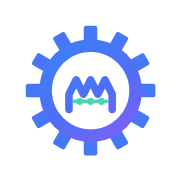
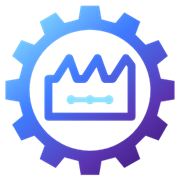
Логотип заменён на исходный файл: знак, фавикон и обложка

diff --git a/index.html b/index.html
@@ -5,7 +5,6 @@
 <meta name="viewport" content="width=device-width, initial-scale=1">
 <title>Цифровой завод — роботизация и цифровая платформа СМК</title>
 <meta name="description" content="ООО «Цифровой завод»: внедрение промышленных роботов, роботизированные ячейки, интеграция с оборудованием и цифровая платформа СМК.">
-<link rel="icon" href="assets/favicon.svg" type="image/svg+xml">
 <link rel="icon" href="assets/favicon-512.png" sizes="512x512" type="image/png">
 <link rel="apple-touch-icon" href="assets/apple-touch-icon.png">
 <meta name="theme-color" content="#050b16">
@@ -31,7 +30,7 @@
 
 <header class="site-header">
   <div class="wrap header-inner">
-    <a class="brand" href="index.html"><img class="brand-logo" src="assets/logo.svg" width="72" height="72" alt="">Цифровой завод</a>
+    <a class="brand" href="index.html"><img class="brand-logo" src="assets/logo.png" width="72" height="72" alt="">Цифровой завод</a>
     <button class="nav-toggle" type="button" aria-expanded="false" aria-controls="main-nav">Меню</button>
     <nav class="main-nav" id="main-nav" aria-label="Основная навигация">
       <a href="index.html" aria-current="page">Главная</a>

diff --git a/robotization.html b/robotization.html
@@ -5,7 +5,6 @@
 <meta name="viewport" content="width=device-width, initial-scale=1">
 <title>Роботизация производства — Цифровой завод</title>
 <meta name="description" content="Роботизация производства: интеллектуальные роботизированные производственные ячейки — роботы, логистика и контроль качества в единой системе.">
-<link rel="icon" href="assets/favicon.svg" type="image/svg+xml">
 <link rel="icon" href="assets/favicon-512.png" sizes="512x512" type="image/png">
 <link rel="apple-touch-icon" href="assets/apple-touch-icon.png">
 <meta name="theme-color" content="#050b16">
@@ -31,7 +30,7 @@
 
 <header class="site-header">
   <div class="wrap header-inner">
-    <a class="brand" href="index.html"><img class="brand-logo" src="assets/logo.svg" width="72" height="72" alt="">Цифровой завод</a>
+    <a class="brand" href="index.html"><img class="brand-logo" src="assets/logo.png" width="72" height="72" alt="">Цифровой завод</a>
     <button class="nav-toggle" type="button" aria-expanded="false" aria-controls="main-nav">Меню</button>
     <nav class="main-nav" id="main-nav" aria-label="Основная навигация">
       <a href="index.html">Главная</a>

diff --git a/services.html b/services.html
@@ -5,7 +5,6 @@
 <meta name="viewport" content="width=device-width, initial-scale=1">
 <title>Услуги — Цифровой завод</title>
 <meta name="description" content="Компетенции в области организации производства и оптимизации производственных систем: инжиниринг, организация производства, цифровые методы управления, СМК.">
-<link rel="icon" href="assets/favicon.svg" type="image/svg+xml">
 <link rel="icon" href="assets/favicon-512.png" sizes="512x512" type="image/png">
 <link rel="apple-touch-icon" href="assets/apple-touch-icon.png">
 <meta name="theme-color" content="#050b16">
@@ -31,7 +30,7 @@
 
 <header class="site-header">
   <div class="wrap header-inner">
-    <a class="brand" href="index.html"><img class="brand-logo" src="assets/logo.svg" width="72" height="72" alt="">Цифровой завод</a>
+    <a class="brand" href="index.html"><img class="brand-logo" src="assets/logo.png" width="72" height="72" alt="">Цифровой завод</a>
     <button class="nav-toggle" type="button" aria-expanded="false" aria-controls="main-nav">Меню</button>
     <nav class="main-nav" id="main-nav" aria-label="Основная навигация">
       <a href="index.html">Главная</a>

diff --git a/smk.html b/smk.html
@@ -5,7 +5,6 @@
 <meta name="viewport" content="width=device-width, initial-scale=1">
 <title>Цифровая платформа СМК — Цифровой завод</title>
 <meta name="description" content="Цифровая платформа СМК: PFMEA, DFMEA, цифровой паспорт изделия, центр компетенций и цифровой ассистент. Экран платформы и состав блоков.">
-<link rel="icon" href="assets/favicon.svg" type="image/svg+xml">
 <link rel="icon" href="assets/favicon-512.png" sizes="512x512" type="image/png">
 <link rel="apple-touch-icon" href="assets/apple-touch-icon.png">
 <meta name="theme-color" content="#050b16">
@@ -31,7 +30,7 @@
 
 <header class="site-header">
   <div class="wrap header-inner">
-    <a class="brand" href="index.html"><img class="brand-logo" src="assets/logo.svg" width="72" height="72" alt="">Цифровой завод</a>
+    <a class="brand" href="index.html"><img class="brand-logo" src="assets/logo.png" width="72" height="72" alt="">Цифровой завод</a>
     <button class="nav-toggle" type="button" aria-expanded="false" aria-controls="main-nav">Меню</button>
     <nav class="main-nav" id="main-nav" aria-label="Основная навигация">
       <a href="index.html">Главная</a>

diff --git a/contacts.html b/contacts.html
@@ -5,7 +5,6 @@
 <meta name="viewport" content="width=device-width, initial-scale=1">
 <title>Контакты — Цифровой завод</title>
 <meta name="description" content="Контакты ООО «Цифровой завод»: почта, телефон, часы работы и ответы на частые вопросы о роботизации и цифровой платформе СМК.">
-<link rel="icon" href="assets/favicon.svg" type="image/svg+xml">
 <link rel="icon" href="assets/favicon-512.png" sizes="512x512" type="image/png">
 <link rel="apple-touch-icon" href="assets/apple-touch-icon.png">
 <meta name="theme-color" content="#050b16">
@@ -31,7 +30,7 @@
 
 <header class="site-header">
   <div class="wrap header-inner">
-    <a class="brand" href="index.html"><img class="brand-logo" src="assets/logo.svg" width="72" height="72" alt="">Цифровой завод</a>
+    <a class="brand" href="index.html"><img class="brand-logo" src="assets/logo.png" width="72" height="72" alt="">Цифровой завод</a>
     <button class="nav-toggle" type="button" aria-expanded="false" aria-controls="main-nav">Меню</button>
     <nav class="main-nav" id="main-nav" aria-label="Основная навигация">
       <a href="index.html">Главная</a>

diff --git a/404.html b/404.html
@@ -5,7 +5,6 @@
 <meta name="viewport" content="width=device-width, initial-scale=1">
 <title>Страница не найдена — Цифровой завод</title>
 <meta name="description" content="Такой страницы нет. Перейдите к разделам сайта: главная, услуги, роботизация, цифровая платформа СМК, контакты.">
-<link rel="icon" href="assets/favicon.svg" type="image/svg+xml">
 <link rel="icon" href="assets/favicon-512.png" sizes="512x512" type="image/png">
 <link rel="apple-touch-icon" href="assets/apple-touch-icon.png">
 <meta name="theme-color" content="#050b16">
@@ -17,7 +16,7 @@
 
 <header class="site-header">
   <div class="wrap header-inner">
-    <a class="brand" href="index.html"><img class="brand-logo" src="assets/logo.svg" width="72" height="72" alt="">Цифровой завод</a>
+    <a class="brand" href="index.html"><img class="brand-logo" src="assets/logo.png" width="72" height="72" alt="">Цифровой завод</a>
     <button class="nav-toggle" type="button" aria-expanded="false" aria-controls="main-nav">Меню</button>
     <nav class="main-nav" id="main-nav" aria-label="Основная навигация">
       <a href="index.html">Главная</a>
